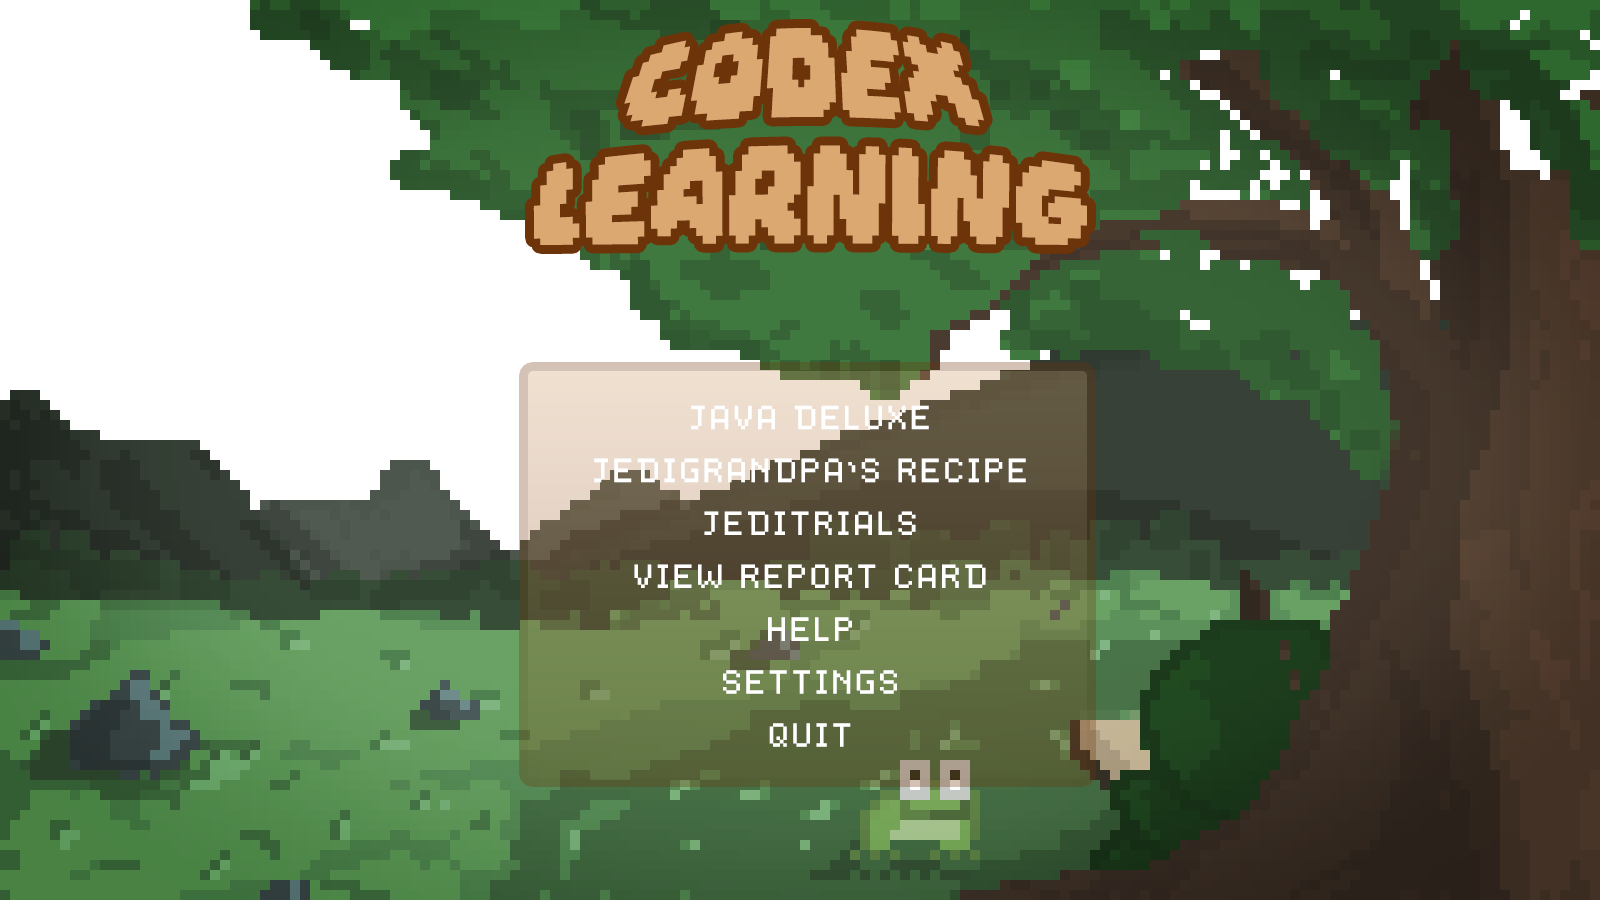
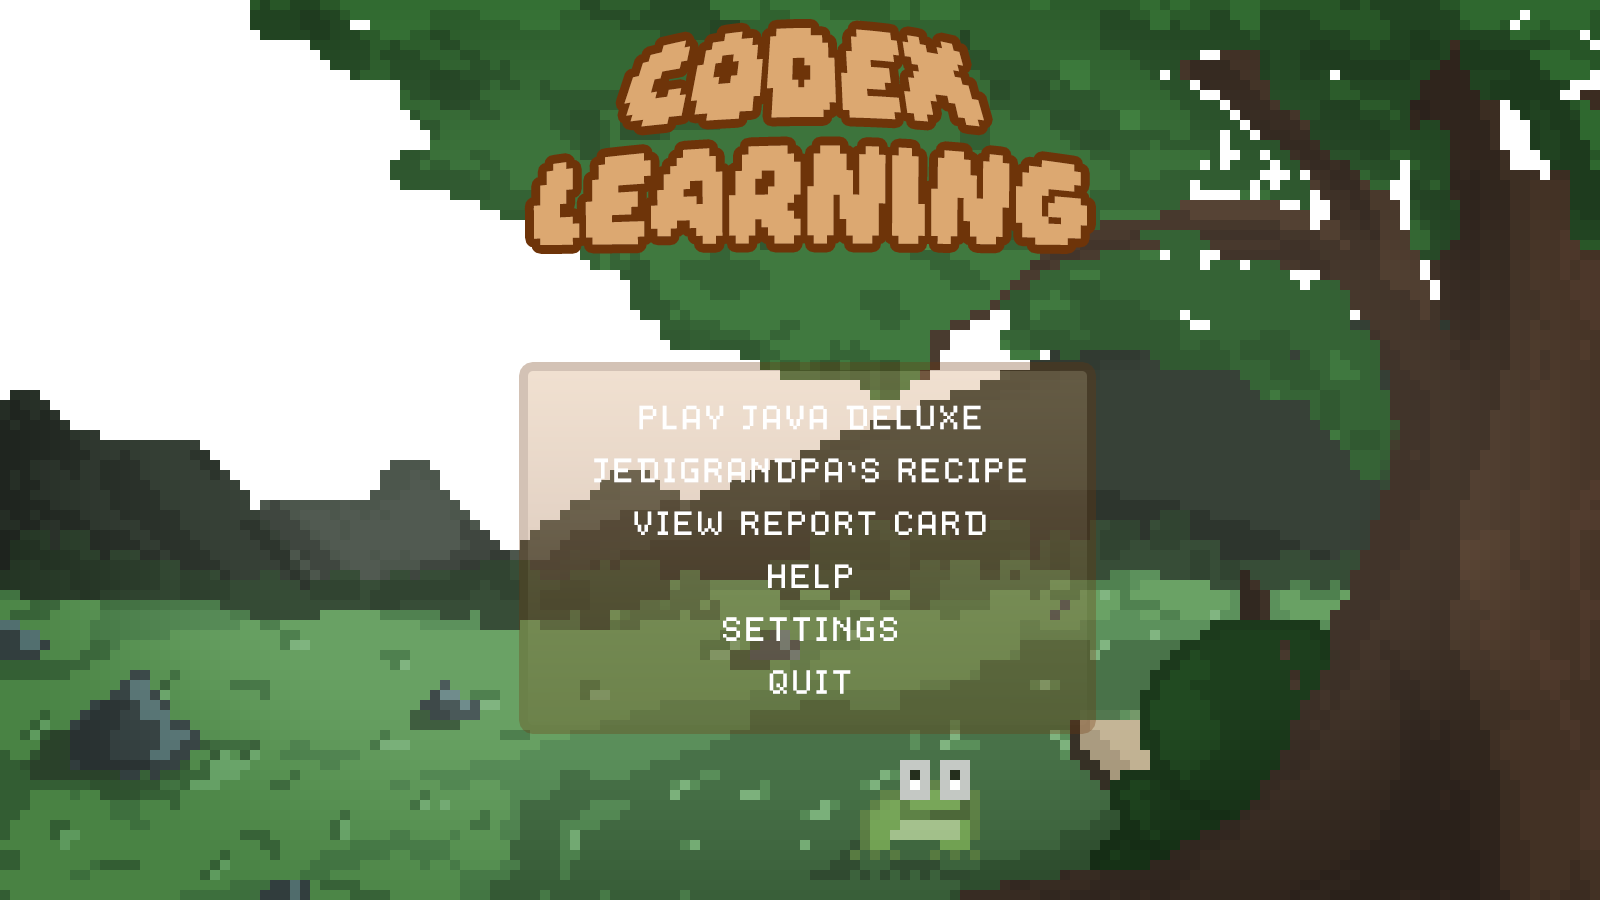
updated menu

diff --git a/core/src/com/codex/learning/states/MenuState.java b/core/src/com/codex/learning/states/MenuState.java
@@ -40,16 +40,16 @@ public class MenuState extends State {
                 (int) (manager.getCamera().position.y - Constants.SCREEN_HEIGHT/2 + Constants.DELUXE_ON_SCREEN_Y), Constants.TEXT_HIGHLIGHT_WIDTH , Constants.TEXT_HIGHLIGHT_HEIGHT);
         recipeBounds = new Rectangle((int) (manager.getCamera().position.x - Constants.SCREEN_WIDTH/2 + Constants.RECIPE_ON_SCREEN_X),
                 (int) (manager.getCamera().position.y - Constants.SCREEN_HEIGHT/2 + Constants.RECIPE_ON_SCREEN_Y), Constants.TEXT_HIGHLIGHT_WIDTH, Constants.TEXT_HIGHLIGHT_HEIGHT);
-        jediTrialBounds = new Rectangle((int) (manager.getCamera().position.x - Constants.SCREEN_WIDTH/2 + Constants.TRIAL_ON_SCREEN_X),
+        reportCardBounds = new Rectangle((int) (manager.getCamera().position.x - Constants.SCREEN_WIDTH/2 + Constants.TRIAL_ON_SCREEN_X),
                 (int) (manager.getCamera().position.y - Constants.SCREEN_HEIGHT/2 + Constants.TRIAL_ON_SCREEN_Y), Constants.TEXT_HIGHLIGHT_WIDTH, Constants.TEXT_HIGHLIGHT_HEIGHT);
-        reportCardBounds = new Rectangle((int) (manager.getCamera().position.x - Constants.SCREEN_WIDTH/2 + Constants.REPORT_CARD_ON_SCREEN_X),
+        helpBounds = new Rectangle((int) (manager.getCamera().position.x - Constants.SCREEN_WIDTH/2 + Constants.REPORT_CARD_ON_SCREEN_X),
                 (int) (manager.getCamera().position.y - Constants.SCREEN_HEIGHT/2 +Constants.REPORT_CARD_ON_SCREEN_Y), Constants.TEXT_HIGHLIGHT_WIDTH, Constants.TEXT_HIGHLIGHT_HEIGHT);
-        helpBounds = new Rectangle((int) (manager.getCamera().position.x - Constants.SCREEN_WIDTH/2 +  Constants.HELP_ON_SCREEN_X),
+        settingsBounds = new Rectangle((int) (manager.getCamera().position.x - Constants.SCREEN_WIDTH/2 +  Constants.HELP_ON_SCREEN_X),
                 (int) (manager.getCamera().position.y - Constants.SCREEN_HEIGHT/2 + Constants.HELP_ON_SCREEN_Y), Constants.TEXT_HIGHLIGHT_WIDTH, Constants.TEXT_HIGHLIGHT_HEIGHT);
-        settingsBounds = new Rectangle((int) (manager.getCamera().position.x - Constants.SCREEN_WIDTH/2 + Constants.SETTINGS_ON_SCREEN_X),
+        quitGameBounds = new Rectangle((int) (manager.getCamera().position.x - Constants.SCREEN_WIDTH/2 + Constants.SETTINGS_ON_SCREEN_X),
                 (int) (manager.getCamera().position.y - Constants.SCREEN_HEIGHT/2 + Constants.SETTINGS_ON_SCREEN_Y), Constants.TEXT_HIGHLIGHT_WIDTH, Constants.TEXT_HIGHLIGHT_HEIGHT);
-        quitGameBounds = new Rectangle((int) (manager.getCamera().position.x - Constants.SCREEN_WIDTH/2 + Constants.QUIT_ON_SCREEN_X),
-                (int) (manager.getCamera().position.y - Constants.SCREEN_HEIGHT/2 +   Constants.QUIT_ON_SCREEN_Y), Constants.TEXT_HIGHLIGHT_WIDTH, Constants.TEXT_HIGHLIGHT_HEIGHT);
+//        quitGameBounds = new Rectangle((int) (manager.getCamera().position.x - Constants.SCREEN_WIDTH/2 + Constants.QUIT_ON_SCREEN_X),
+//                (int) (manager.getCamera().position.y - Constants.SCREEN_HEIGHT/2 +   Constants.QUIT_ON_SCREEN_Y), Constants.TEXT_HIGHLIGHT_WIDTH, Constants.TEXT_HIGHLIGHT_HEIGHT);
 
         xMax = 2235;
         xCoord = xMax*(-1);
@@ -100,9 +100,6 @@ public class MenuState extends State {
     public void input(){
         if(Gdx.input.justTouched()){
             manager.getCamera().unproject(touchpoint.set(Gdx.input.getX(), Gdx.input.getY(), 0));
-//            if(soundBounds.contains(touchpoint.x, touchpoint.y)){
-//                System.out.println("You clicked at Sounds!");
-//            }
             if(javaDeluxeBounds.contains(touchpoint.x, touchpoint.y)){
                 manager.getMusic().stop();
                 manager.set(new StageSelectState(manager));
@@ -115,16 +112,15 @@ public class MenuState extends State {
                 System.out.println(touchpoint.x + " " + touchpoint.y);
                 System.out.println(recipeBounds.x + " " + recipeBounds.y);
             }
-            if(jediTrialBounds.contains(touchpoint.x, touchpoint.y)){
-                System.out.println("You clicked at Jedi Trials!");
-            }
+
             if(settingsBounds.contains(touchpoint.x, touchpoint.y)){
                 System.out.println("clicked at settings");
                 settings.setSettings(true);
-//                manager.set(new Settings(manager));
             }
             if(quitGameBounds.contains(touchpoint.x, touchpoint.y)){
                 System.out.println("You clicked at Quit Game!");
+                Gdx.app.exit();
+                System.exit(-1);
             }
         }
     }
@@ -132,10 +128,6 @@ public class MenuState extends State {
     public void drawObject(SpriteBatch sprite){
         manager.getCamera().unproject(touchpoint.set(Gdx.input.getX(), Gdx.input.getY(), 0));
 
-//        if(soundBounds.contains(touchpoint.x, touchpoint.y)){
-//            sprite.draw(musicLogo, manager.getCamera().position.x - Constants.SCREEN_WIDTH/2f + Constants.SOUND_ON_SCREEN_X,
-//                    manager.getCamera().position.y - Constants.SCREEN_HEIGHT/2f + Constants.SOUND_ON_SCREEN_Y, Constants.TEXT_HIGHLIGHT_WIDTH , Constants.TEXT_HIGHLIGHT_HEIGHT);
-//        }
         if(javaDeluxeBounds.contains(touchpoint.x, touchpoint.y)){
             sprite.draw(textHighlight, manager.getCamera().position.x - Constants.SCREEN_WIDTH/2f + Constants.DELUXE_ON_SCREEN_X,
                     manager.getCamera().position.y - Constants.SCREEN_HEIGHT/2f + Constants.DELUXE_ON_SCREEN_Y, Constants.TEXT_HIGHLIGHT_WIDTH , Constants.TEXT_HIGHLIGHT_HEIGHT);
@@ -144,30 +136,26 @@ public class MenuState extends State {
             sprite.draw(textHighlight, manager.getCamera().position.x - Constants.SCREEN_WIDTH/2f + Constants.RECIPE_ON_SCREEN_X,
                     manager.getCamera().position.y - Constants.SCREEN_HEIGHT/2f + Constants.RECIPE_ON_SCREEN_Y, Constants.TEXT_HIGHLIGHT_WIDTH , Constants.TEXT_HIGHLIGHT_HEIGHT);
         }
-        if(jediTrialBounds.contains(touchpoint.x, touchpoint.y)){
+        if(reportCardBounds.contains(touchpoint.x, touchpoint.y)){
             sprite.draw(textHighlight, manager.getCamera().position.x - Constants.SCREEN_WIDTH/2f + Constants.TRIAL_ON_SCREEN_X,
                     manager.getCamera().position.y - Constants.SCREEN_HEIGHT/2f + Constants.TRIAL_ON_SCREEN_Y, Constants.TEXT_HIGHLIGHT_WIDTH , Constants.TEXT_HIGHLIGHT_HEIGHT);
         }
-        if(reportCardBounds.contains(touchpoint.x, touchpoint.y)){
+        if(helpBounds.contains(touchpoint.x, touchpoint.y)){
             sprite.draw(textHighlight, manager.getCamera().position.x - Constants.SCREEN_WIDTH/2f + Constants.REPORT_CARD_ON_SCREEN_X,
                     manager.getCamera().position.y - Constants.SCREEN_HEIGHT/2f + Constants.REPORT_CARD_ON_SCREEN_Y, Constants.TEXT_HIGHLIGHT_WIDTH , Constants.TEXT_HIGHLIGHT_HEIGHT);
         }
-        if(helpBounds.contains(touchpoint.x, touchpoint.y)){
+        if(settingsBounds.contains(touchpoint.x, touchpoint.y)){
             sprite.draw(textHighlight, manager.getCamera().position.x - Constants.SCREEN_WIDTH/2f + Constants.HELP_ON_SCREEN_X,
                     manager.getCamera().position.y - Constants.SCREEN_HEIGHT/2f + Constants.HELP_ON_SCREEN_Y, Constants.TEXT_HIGHLIGHT_WIDTH , Constants.TEXT_HIGHLIGHT_HEIGHT);
         }
-        if(settingsBounds.contains(touchpoint.x, touchpoint.y)){
+        if(quitGameBounds.contains(touchpoint.x, touchpoint.y)){
             sprite.draw(textHighlight, manager.getCamera().position.x - Constants.SCREEN_WIDTH/2f + Constants.SETTINGS_ON_SCREEN_X,
                     manager.getCamera().position.y - Constants.SCREEN_HEIGHT/2f + Constants.SETTINGS_ON_SCREEN_Y, Constants.TEXT_HIGHLIGHT_WIDTH , Constants.TEXT_HIGHLIGHT_HEIGHT);
         }
-        if(quitGameBounds.contains(touchpoint.x, touchpoint.y)){
-            sprite.draw(textHighlight, manager.getCamera().position.x - Constants.SCREEN_WIDTH/2f + Constants.QUIT_ON_SCREEN_X,
-                    manager.getCamera().position.y - Constants.SCREEN_HEIGHT/2f + Constants.QUIT_ON_SCREEN_Y, Constants.TEXT_HIGHLIGHT_WIDTH , Constants.TEXT_HIGHLIGHT_HEIGHT);
-        }
+
     }
 
     @Override
     public void dispose() {
-
     }
 }
